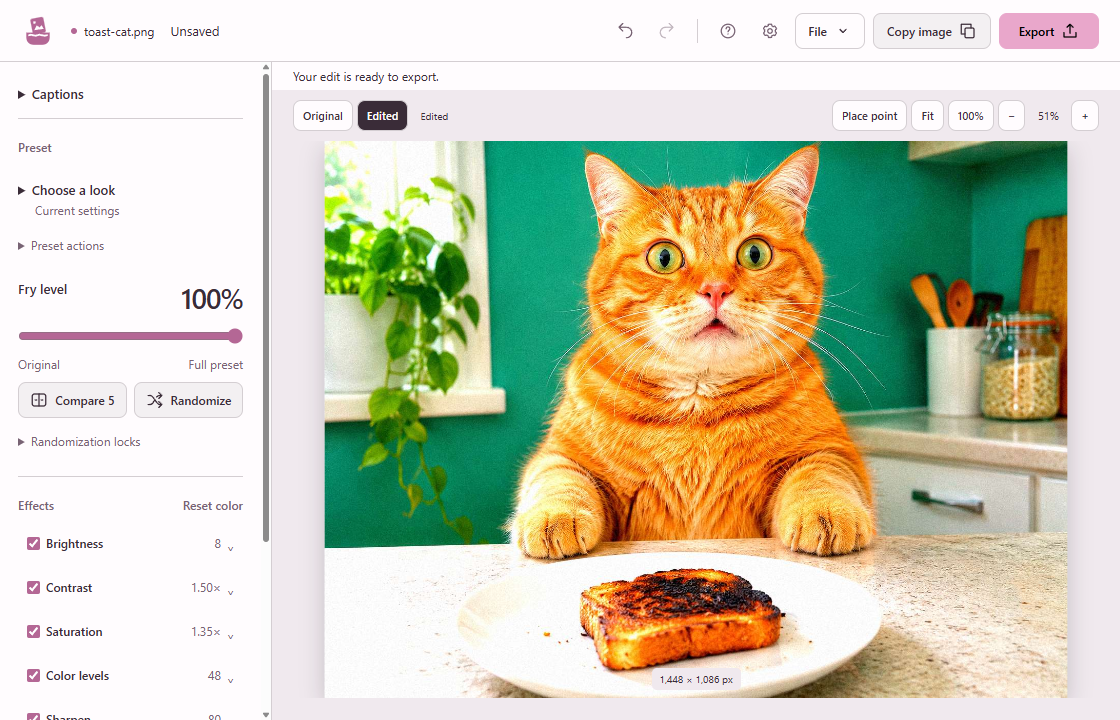
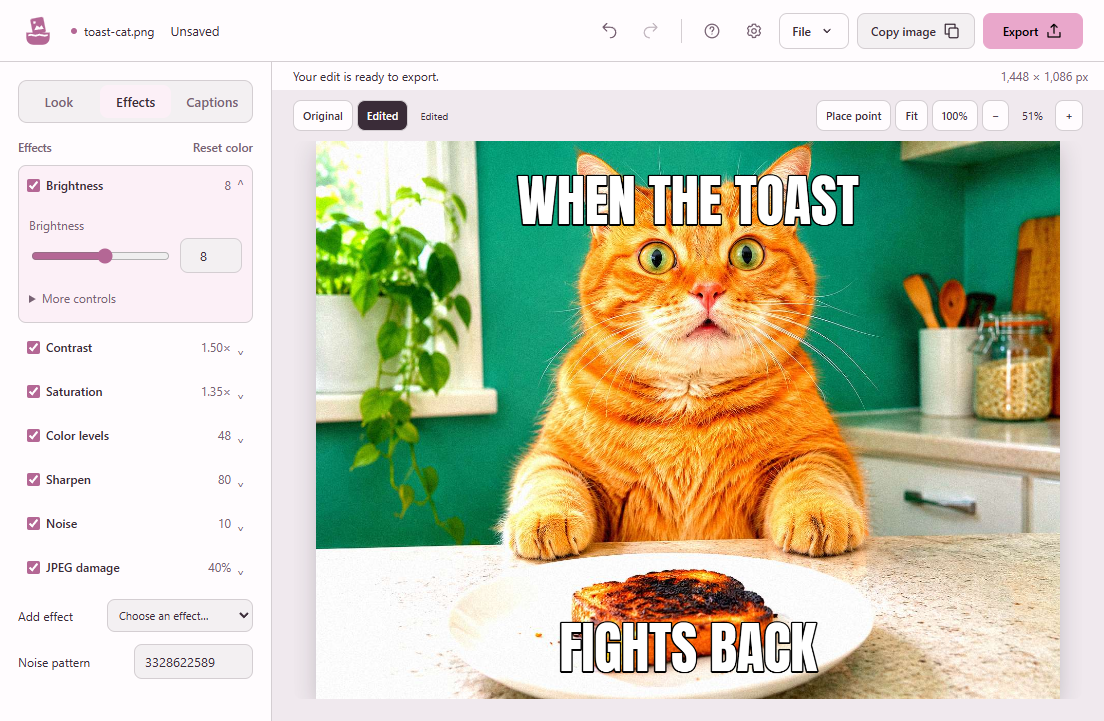
docs: show current editor sections and editable captions

diff --git a/README.md b/README.md
@@ -4,9 +4,9 @@
 
 A local Windows image editor for deep-fried memes. Push colors, add noise and JPEG damage, and warp faces with bulge or pinch points. Start with a preset, adjust the result, then copy it into another app or export an image. No account or upload required.
 
-![Deep Fryer 0.5.0 source preview with image-based looks, readable controls, unsaved-project status, and a fried demo cat](docs/images/editor-dark.png)
+![Deep Fryer 0.5.0 source preview with Look, Effects, and Captions navigation, editable top and bottom text, and a fried demo cat](docs/images/editor-dark.png)
 
-The screenshot shows the 0.5.0 source preview. The download below is the published 0.4.0 release. New source changes require a build and are not included in that installer. See the [changelog](CHANGELOG.md), [light appearance](docs/images/editor-light.png), and [minimum-window layout](docs/images/editor-minimum-light.png).
+The screenshots show the current **0.5.0 source preview**. The download below is the published **0.4.0 release**. New source changes require a build and are not included in that installer. See the [changelog](CHANGELOG.md), [Effects in light appearance](docs/images/editor-light.png), and [minimum-window Effects layout](docs/images/editor-minimum-light.png).
 
 The 0.5.0 source adds editable top/bottom meme captions, an opt-in demo, live previews of each look on your image, and Save project, Discard, or Cancel protection before leaving unsaved work. Export keeps the original aspect ratio unless you unlock it.
 
@@ -34,25 +34,27 @@ Compare it with `SHA256SUMS.txt` on the same release. If the values match and yo
 
 ## Make your first edit
 
-1. Choose **File → Open image**, paste a copied image, or drop one PNG or JPEG into the window.
-2. Choose **Crispy color**, **Noisy photocopy**, or **Overcooked**. The canvas shows the edited result. The 0.4.0 installer uses a preset menu; the 0.5.0 source has a preview gallery.
-3. Adjust **Fry level** or open an effect to change its settings. Use **Original** to compare, or Undo to restore the previous edit.
-4. Choose **Copy image** to paste the edited result into another app. Wait for **Image copied** before pasting.
-5. To save a file, choose **Export**, set its format, size, and name, then choose **Save image…** and a new destination.
+These steps follow the **0.5.0 source preview**. In the published 0.4.0 release, choose a preset from the menu and adjust effects in the sidebar. That release has no Captions section.
 
-In the 0.5.0 source, open **Captions** and enter **Top** or **Bottom** text. Text stays readable over effects and remains editable when you change looks. **Text size** adjusts its maximum size; longer captions shrink to fit up to three lines. **Clear** removes both captions and can be undone.
+1. Choose **File → Open image**, paste a copied image, or drop one PNG or JPEG into the window. To start without your own image, choose **Try demo**.
+2. In **Look**, expand **Choose a look** and select **Crispy color**, **Noisy photocopy**, or **Overcooked**. The thumbnails preview your image; the canvas shows the selected result. Adjust **Fry level** to change its strength.
+3. Choose **Effects** to adjust an individual effect or add one. Use **Original** to compare, or Undo to restore the previous edit.
+4. Choose **Captions** and type into **Top** or **Bottom**. Your text appears over the edited image and stays editable when you change looks.
+5. Choose **Copy image** to paste the edited result into another app. Wait for **Image copied** before pasting. To save a file, choose **Export**, set its format, size, and name, then choose **Save image…** and a new destination.
 
-![Editable top and bottom captions over a fried demo cat in the 0.5.0 source preview at the minimum Windows window size](docs/images/editor-captions.png)
+[Look gallery in the 0.5.0 source preview](docs/images/editor-look.png). Each section gives its controls the full sidebar. In **Captions**, expand **Text size** to adjust the maximum size; longer captions shrink to fit up to three lines. **Clear** removes both captions and can be undone.
+
+![Deep Fryer 0.5.0 source preview with editable Top and Bottom caption fields at the 900 × 620 minimum outer window size in light appearance](docs/images/editor-captions.png)
 
 In the **0.5.0 source**, use **File → Save project** or `Ctrl+S` to continue editing later. Choose a new file the first time; later saves update that project without another chooser. **Save project as…** creates a separate copy and makes it the destination for later saves. Exported images do not retain editable effects or text. The **Help** button explains effects, captions, point controls, and saving with illustrated examples.
 
 ## See what the effects do
 
-These examples come from the production effect engine. Example settings and image hashes are in the [help media manifest](src/renderer/src/assets/help/manifest.json).
+The **0.5.0 source preview** below compares the original on the left with **Crispy color** on the right. These are full-resolution canvas captures before adding captions, with the same source image and dimensions.
 
-| Original | JPEG damage, then Sharpen | 5× saturation |
-| --- | --- | --- |
-| ![Original cat photo](src/renderer/src/assets/help/original.png) | ![Cat with JPEG blocks emphasized by sharpening](src/renderer/src/assets/help/jpeg-sharpen.png) | ![Same cat with saturation increased to five times neutral](src/renderer/src/assets/help/saturation.png) |
+![Deep Fryer 0.5.0 source preview comparison, original toast cat on the left and Crispy color with stronger color, sharpening, noise, and JPEG damage on the right](docs/images/before-after.png)
+
+Open **Help → Effects** for individual effect examples. Their settings and image hashes are in the [help media manifest](src/renderer/src/assets/help/manifest.json).
 
 ## What you can do
 

diff --git a/docs/development.md b/docs/development.md
@@ -45,6 +45,28 @@ Get-ChildItem -LiteralPath release -Filter '*.exe'
 
 The package verifier checks bundled help media, runtime icons, and executable icon pixels against the source icon. Local build hashes can differ from the published release. Use the published checksum only for the exact downloaded release asset.
 
+## Refresh product screenshots
+
+Use the [verification skill](../.agents/skills/verify/SKILL.md) to capture the real Electron app with a disposable profile. Keep the build log with a fresh capture directory:
+
+```powershell
+New-Item -ItemType Directory -Force .artifacts | Out-Null
+Remove-Item Env:ELECTRON_RUN_AS_NODE -ErrorAction SilentlyContinue
+Remove-Item Env:DEEP_FRYER_EXECUTABLE -ErrorAction SilentlyContinue
+Remove-Item Env:ELECTRON_EXECUTABLE_PATH -ErrorAction SilentlyContinue
+$env:ELECTRON_RENDERER_URL = ''
+npm run build *> .artifacts/product-readme-NEW.build.log
+if ($LASTEXITCODE -ne 0) { throw 'Build failed. Read the build log.' }
+node scripts/capture-product.mjs --output .artifacts/product-readme-NEW
+if ($LASTEXITCODE -ne 0) { throw 'Capture failed. Read its manifest.' }
+```
+
+Make no source changes between build and capture. Keep the build log with the capture evidence, outside the disposable profile. For an existing package, follow the skill's packaged launch and retain its build provenance and executable hash.
+
+Require `passed: true`, no errors, confirmed process exit, and profile removal in `manifest.json`. Inspect the PNGs before copying selected files into `docs/images`. The helper captures Look, Effects, and editable Captions in both themes at normal and minimum window sizes. It also captures the original and Crispy color canvases side by side before captions are added.
+
+Label README screenshots with the captured source version while that version is unpublished. Keep download links and checksums tied to the published release. This helper intercepts Open and leaves the clipboard untouched; it does not verify installation, offline operation, or native file dialogs.
+
 ## Update help media
 
 ```powershell

diff --git a/SUPPORT.md b/SUPPORT.md
@@ -1,6 +1,6 @@
 # Get help with Deep Fryer
 
-Open **Help** in the app for illustrated instructions on effects, points, and saving. The [README](README.md) covers installation, a first edit, and current limits.
+Open **Help** in the app for illustrated instructions on effects, points, and saving. The [README](README.md) covers installation, a first edit, and current limits. Its screenshots and Look, Effects, and Captions guide show the 0.5.0 source preview. The published 0.4.0 installer uses a preset menu and has no caption editor.
 
 ## Troubleshoot common problems
 
